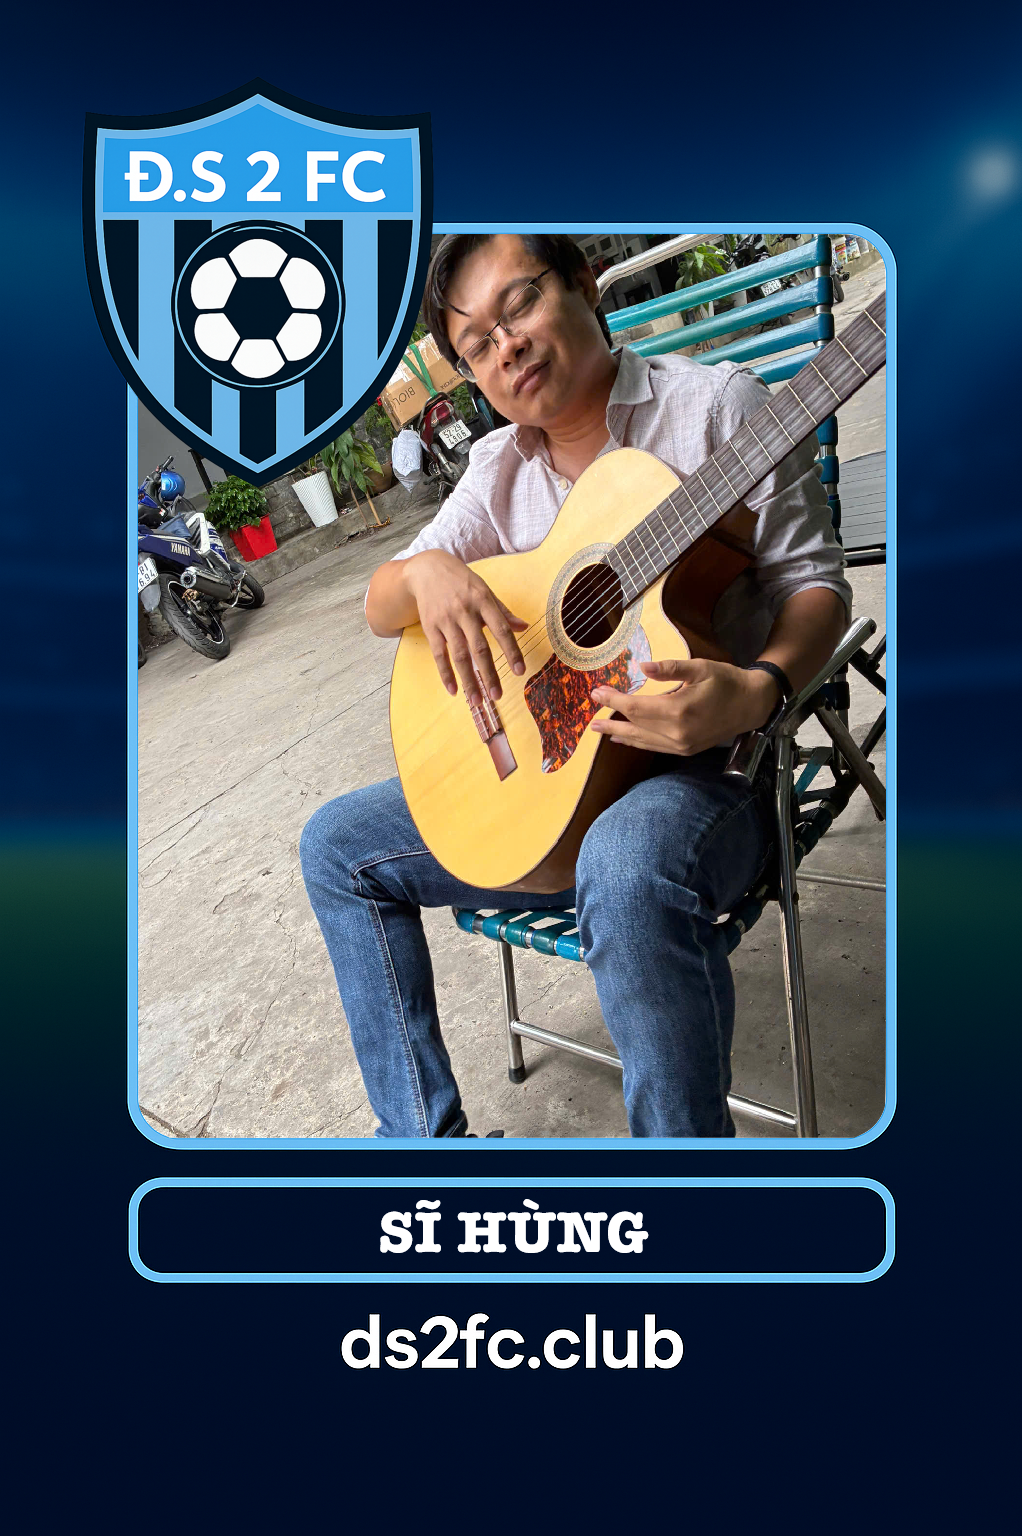
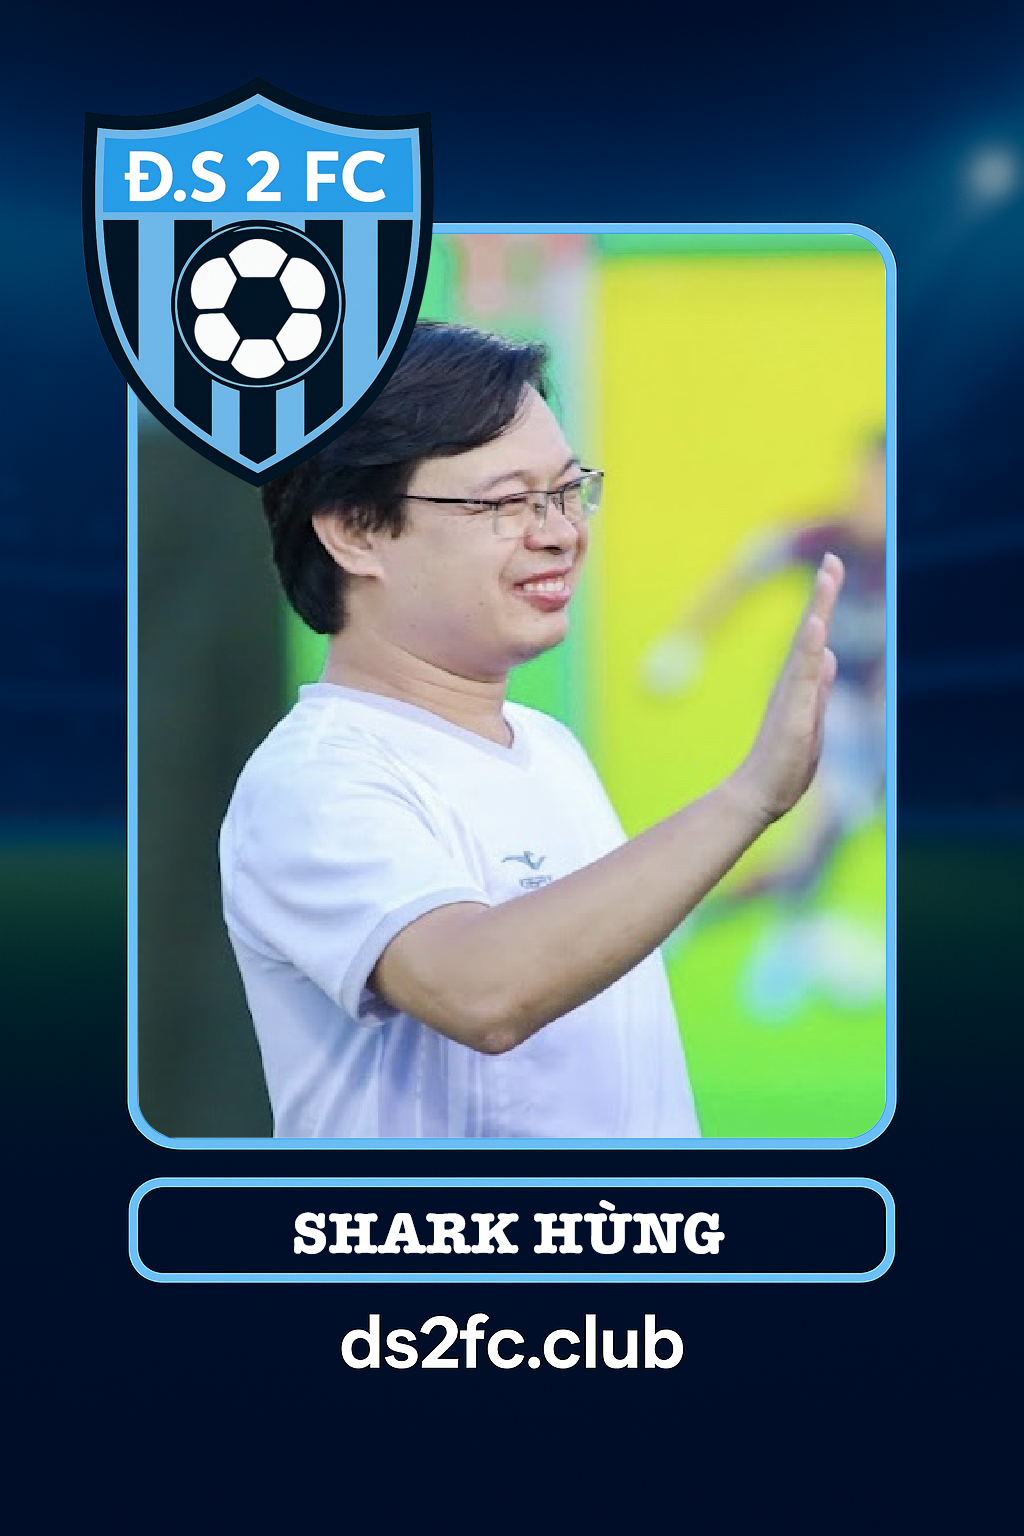
Deploy aefc on Thu Jul 24 12:45:37 SEAST 2025

diff --git a/flutter_service_worker.js b/flutter_service_worker.js
@@ -43,7 +43,7 @@ const RESOURCES = {"assets/AssetManifest.bin": "ec9d71df0f550d30891159817688bbe6
 "assets/assets/images/players/hoanglich.png": "1e4f575077652ab256615b10c6866e6e",
 "assets/assets/images/players/hoangtri.png": "29647960f4600afb92646f3895ab440d",
 "assets/assets/images/players/hoconghoa.jpg": "d6bf0b23330c2db902ced4b61fc5065f",
-"assets/assets/images/players/hung.png": "a4f0ddf9c048e6f64441a775d5ba594e",
+"assets/assets/images/players/hung.png": "efb17ee84ed8584f739d603120514291",
 "assets/assets/images/players/hungdoan.jpg": "eeafe15b42c0819fc4e44fa70cc29666",
 "assets/assets/images/players/hungdoan.png": "08e155da65242fb16ca80bc5f3acb747",
 "assets/assets/images/players/khai.png": "71596e2a3e98d465b46dd25bc7f89353",
@@ -90,7 +90,7 @@ const RESOURCES = {"assets/AssetManifest.bin": "ec9d71df0f550d30891159817688bbe6
 "canvaskit/skwasm.wasm": "39dd80367a4e71582d234948adc521c0",
 "favicon.png": "4e1c00567e5fd8927d26abb9fc4010e8",
 "flutter.js": "83d881c1dbb6d6bcd6b42e274605b69c",
-"flutter_bootstrap.js": "3ef16a01399c0c9e82fc99810b249d65",
+"flutter_bootstrap.js": "0e1767cd967967312508e6752c912f1a",
 "icons/Icon-192.png": "b858eec0d5dfa6aa3181e070f0afdded",
 "icons/Icon-512.png": "90395b7ead299b7700b1ed3760e1d29e",
 "icons/Icon-maskable-192.png": "b858eec0d5dfa6aa3181e070f0afdded",

diff --git a/flutter_bootstrap.js b/flutter_bootstrap.js
@@ -39,6 +39,6 @@ _flutter.buildConfig = {"engineRevision":"8cd19e509d6bece8ccd74aef027c4ca9473630
 
 _flutter.loader.load({
   serviceWorkerSettings: {
-    serviceWorkerVersion: "126869851"
+    serviceWorkerVersion: "3318360414"
   }
 });
